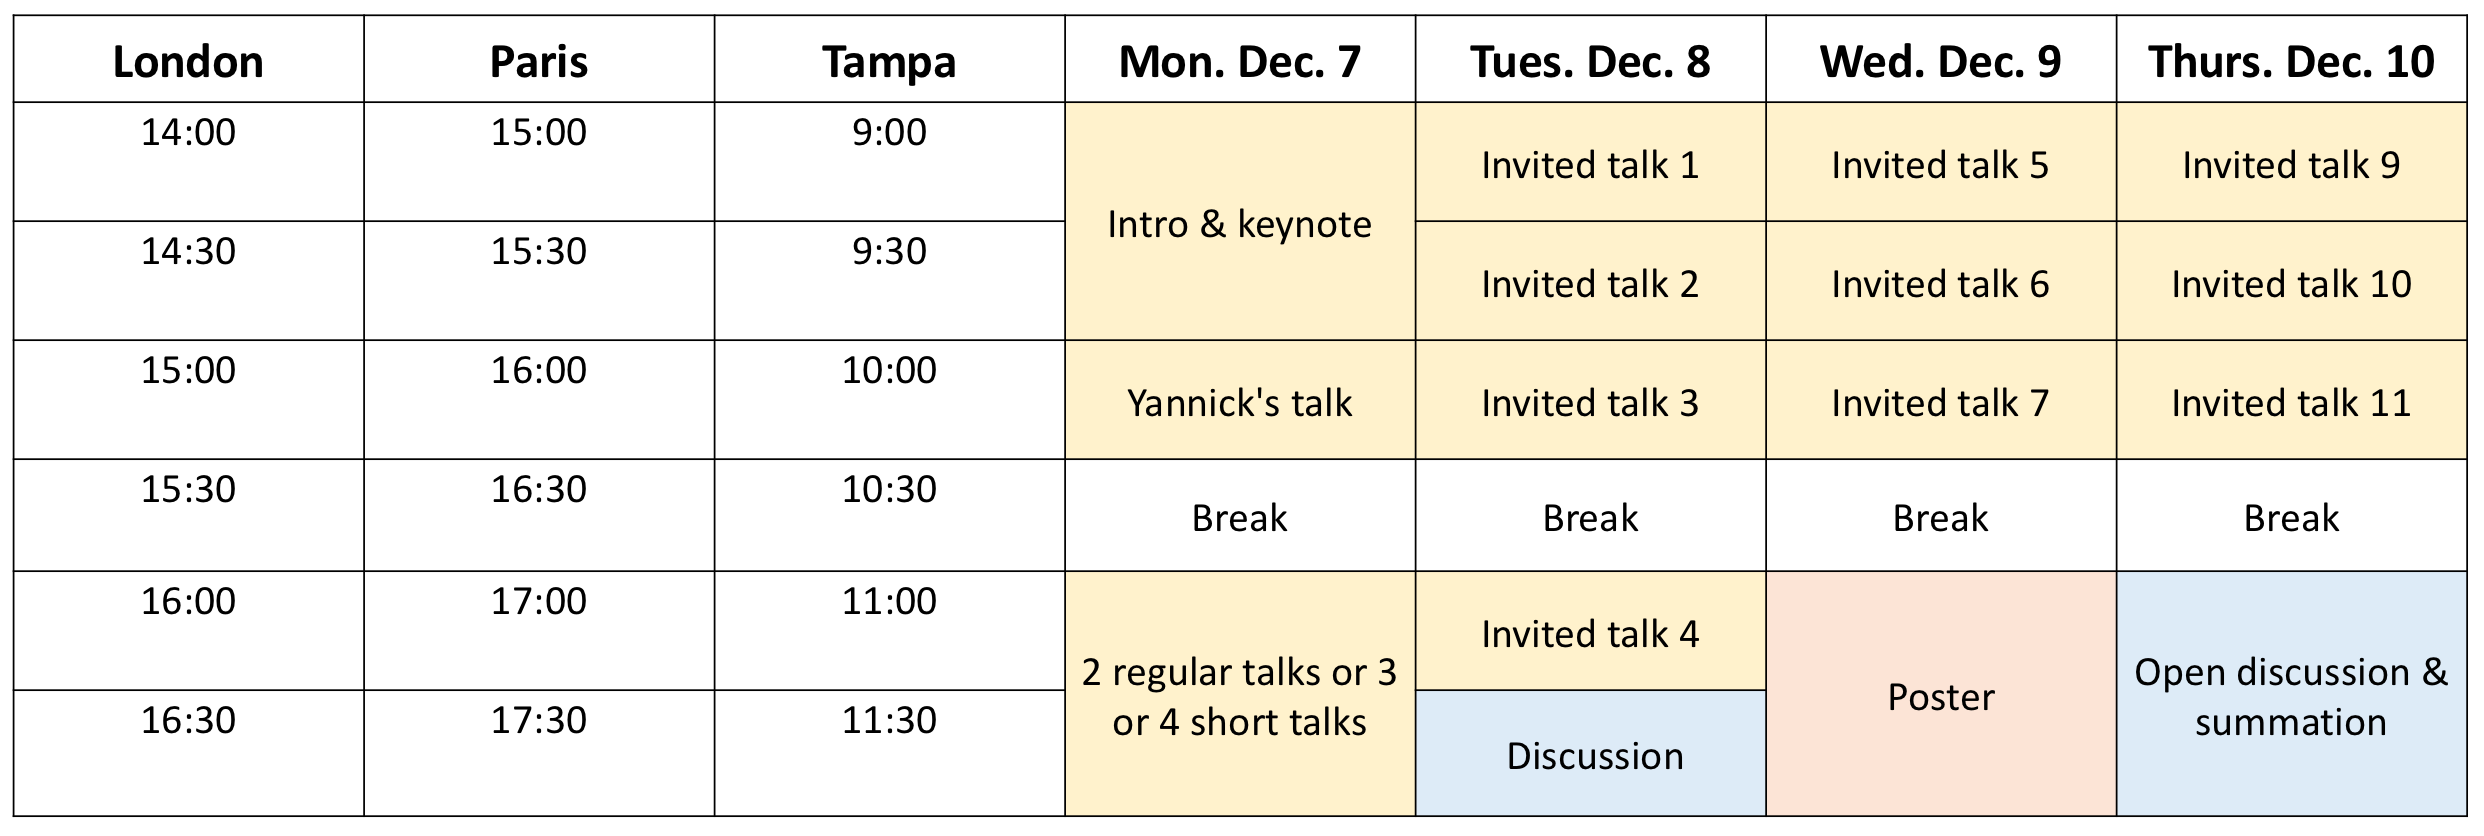
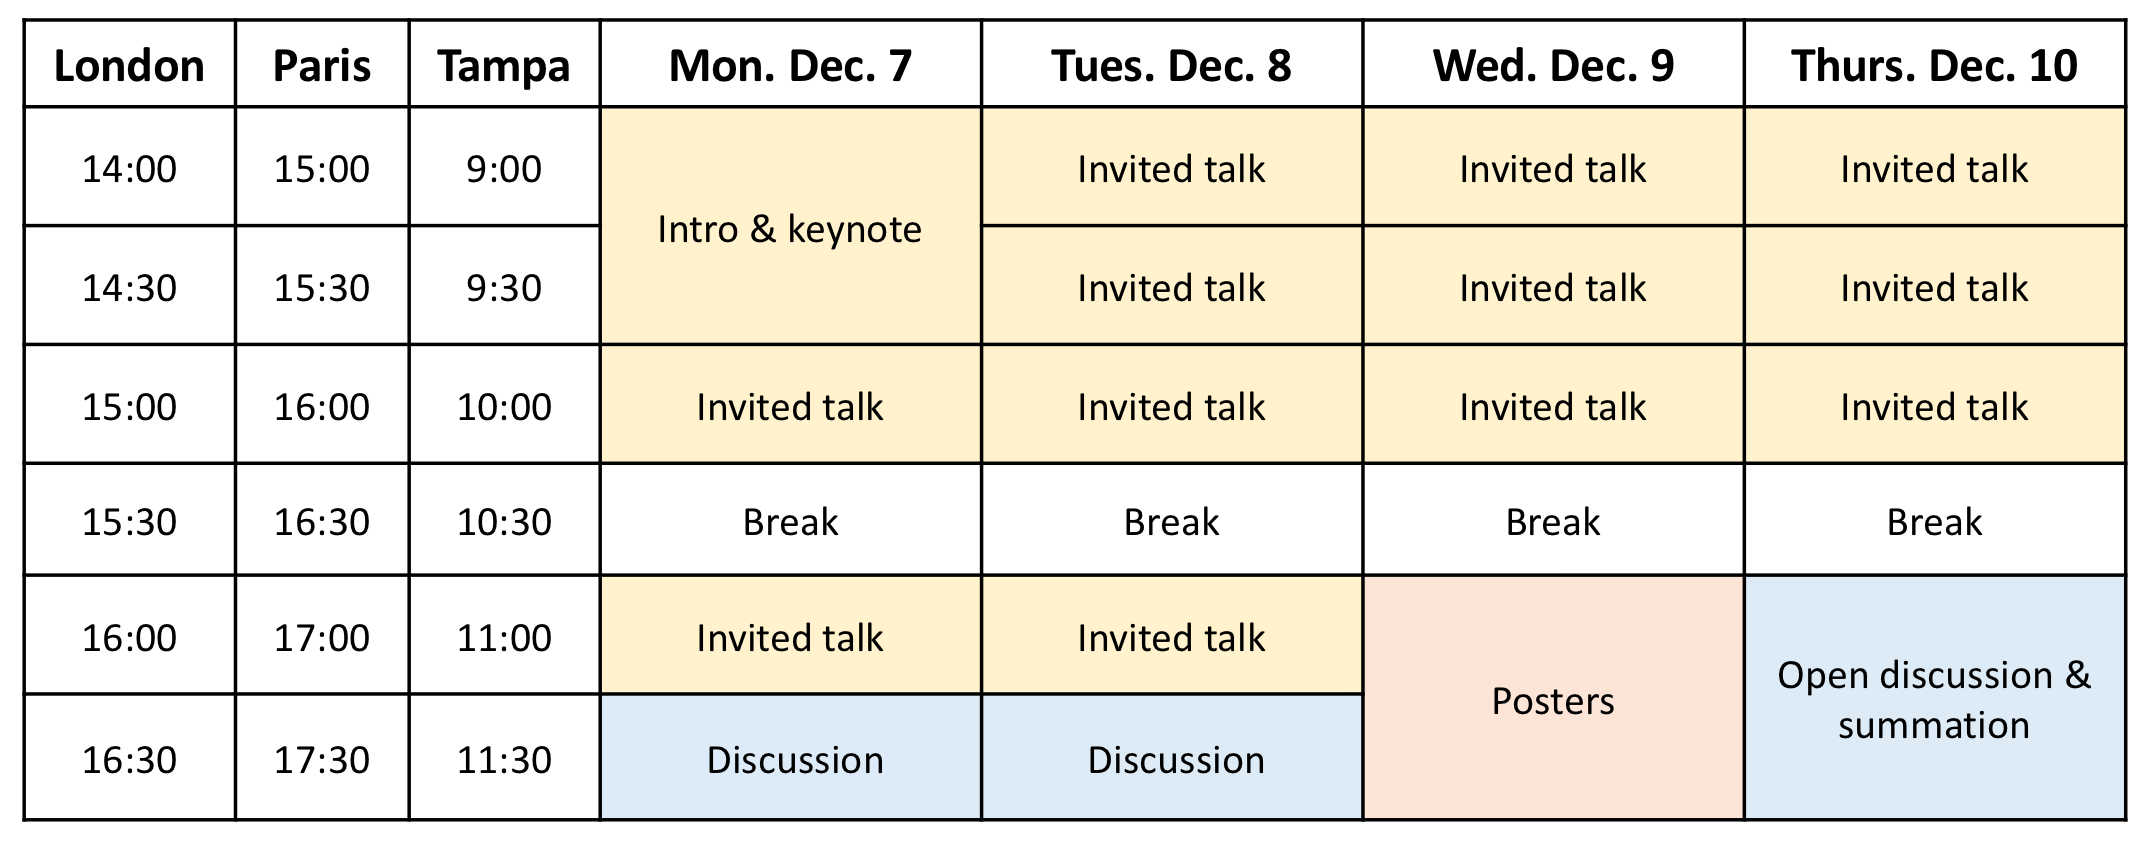
more fixes

Changed region(s): [[0.0, 0.0, 0.9963, 0.9952], [0.1245, 0.1866, 0.1868, 0.2177]]

diff --git a/index.html b/index.html
@@ -14,6 +14,15 @@
         <link href="https://fonts.googleapis.com/css?family=Muli:400,400i,800,800i" rel="stylesheet" type="text/css" />
         <!-- Core theme CSS (includes Bootstrap)-->
         <link href="css/styles.css" rel="stylesheet" />
+        
+        <style>
+					img {
+					  display: block;
+					  width: 100%;
+					  height: auto;
+					}	        
+        </style>
+        
     </head>
     <body id="page-top">
         <!-- Navigation-->
@@ -52,7 +61,7 @@
 
 										<p>Treatment resistance in cancer therapy remains an overarching challenge across all types of cancer and modes of treatment including targeted therapy, chemotherapy, and immunotherapy. Despite the ubiquity of the evolution of resistance, the “more is better'' paradigm prevails in standard of care approaches. Over the past decade, a small group of oncologists in collaboration with evolutionary and experimental biologists have proposed an adaptive approach to cancer treatment.</p>
 										
-										<p>Resistance may confer some fitness costs due to increased rates of DNA repair or other costly activities required to pump toxic drugs across cell membranes. The goal of an adaptive' therapy is to exploit these fitness costs incurred by resistant cells by maintaining stable levels of sensitive cells, usually through drug holidays.</p>
+<!-- 										<p>Resistance may confer some fitness costs due to increased rates of DNA repair or other costly activities required to pump toxic drugs across cell membranes. The goal of an adaptive therapy is to exploit these fitness costs incurred by resistant cells by maintaining stable levels of sensitive cells, usually through drug holidays.</p> -->
 
 
 										<h3>Mathematical Modeling</h3>
@@ -83,13 +92,11 @@
             <section class="resume-section" id="schedule">
                 <div class="resume-section-content">
                     <h2 class="mb-5">Schedule</h2>
+                    <p>* This schedule is tentative and subject to slight modifications.</p>
                     <div class="d-flex flex-column flex-md-row justify-content-between mb-5">
-                        <div class="flex-grow-1">
-	                        <p>* This schedule is tentative and subject to slight modifications.</p>
-                        </div>
-                    </div></br>
-                    <div class="d-flex flex-column flex-md-row justify-content-between mb-5">
-                        <img style="width:100%" src="./assets/img/schedule.png" alt="" />
+	                    	
+                        <img src="./assets/img/schedule.png" alt="" /></img>
+                        
                     </div>
 <!--
                     <div class="d-flex flex-column flex-md-row justify-content-between mb-5">
@@ -135,7 +142,7 @@
                         </li>
                         <li style="margin-bottom: 4px;">
                             <span class="fa-li"><i class="fas fa-terminal"></i></span>
-                            <strong>Yannick Viossat</strong>, Université Paris-Dauphine
+                            <strong>Yannick Viossat</strong>, Université Paris-Dauphine, PSL
                         </li>
                         <li style="margin-bottom: 4px;">
                             <span class="fa-li"><i class="fas fa-terminal"></i></span>
